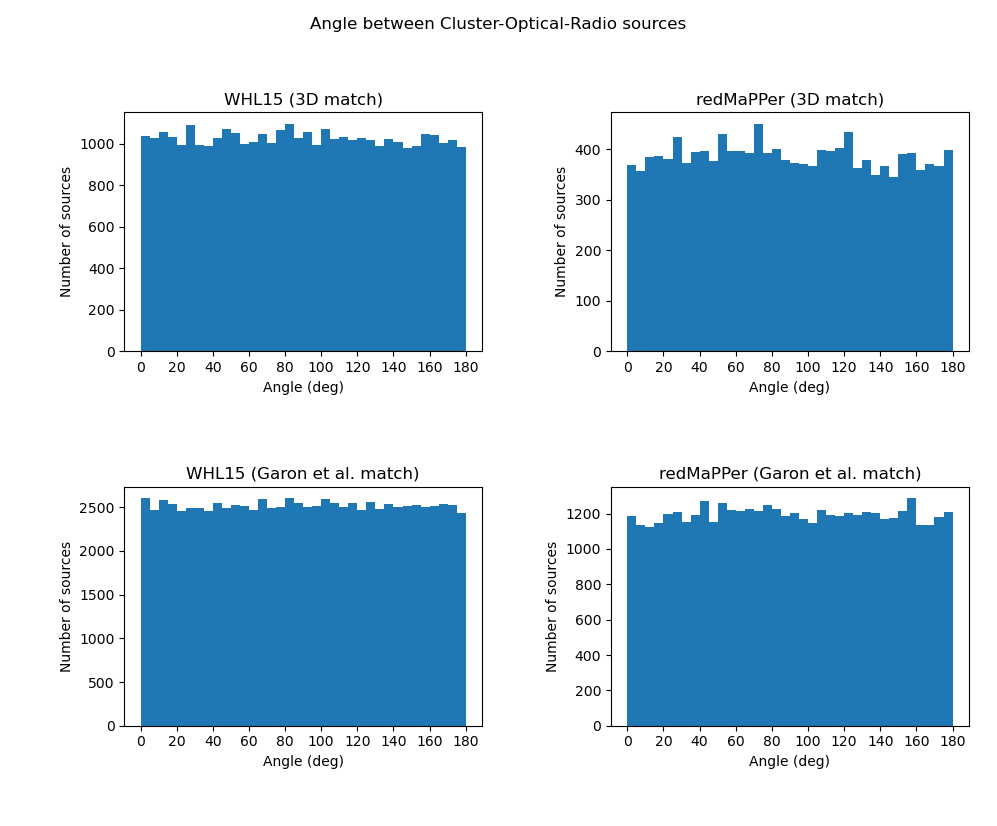
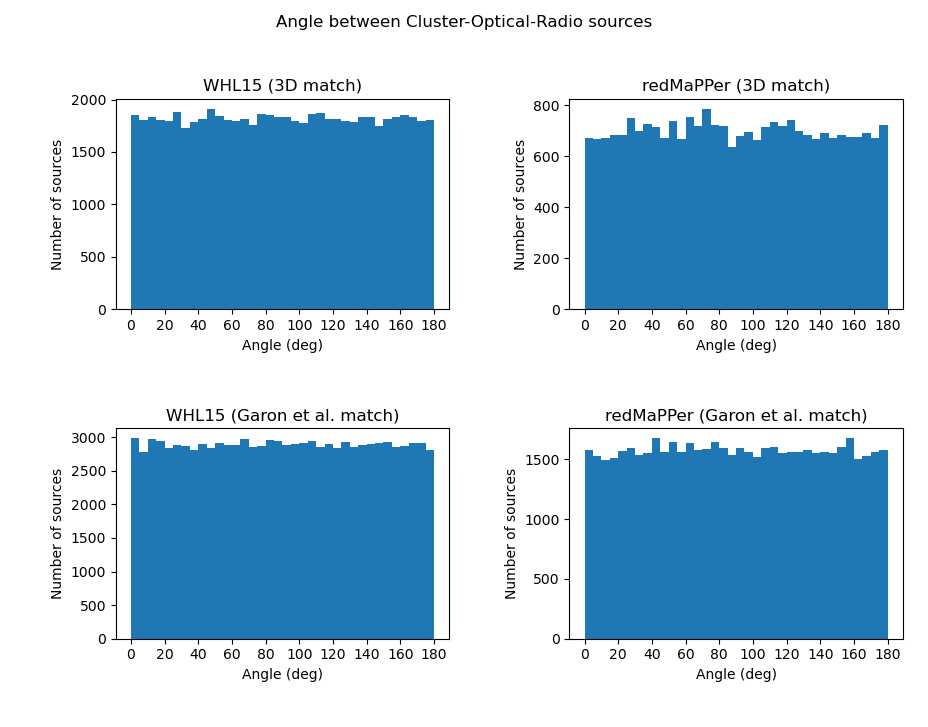
Change from comoving distance to angular diameter distance

diff --git a/LOFAR_Cluster_Match_3D.py b/LOFAR_Cluster_Match_3D.py
@@ -18,25 +18,31 @@ from astropy.cosmology import FlatLambdaCDM
 cosmo = FlatLambdaCDM(H0=68, Om0=0.315)
 
 # Import previously created FITS tables with radio/optical data and cluster data
-RadDat = Table.read('Data\Radio source data', format='fits')
-ClusDat = Table.read('Data\Full RM Cluster Catalogue', format='fits') # This input can be changed for either WHL15 or RM catalogues
+Rad = Table.read('Data\Radio source data', format='fits')
+Clus = Table.read('Data\Full RM Cluster Catalogue', format='fits') # This input can be changed for either WHL15 or RM catalogues
+
+# Spectroscopic z value cuts
+# ClusDat = ClusDat[ClusDat['z Source'] == 'Spectroscopic']
+# RadDat = RadDat[RadDat['z_best_source'] == 'Spectroscopic']
 
 # Calculate distances to sources in Mpc using redshift values
-optDist = cosmo.comoving_distance(RadDat['z_best'])
-ClusDist = cosmo.comoving_distance(ClusDat['Cluster z'])
+optDist = cosmo.angular_diameter_distance(Rad['z_best'])
+ClusDist = cosmo.angular_diameter_distance(Clus['Cluster z'])
 
 # Put optical and cluster RA and DEC into SkyCoords
-opt = SkyCoord(RadDat['Optical RA'], RadDat['Optical DEC'], distance=optDist,
+opt = SkyCoord(Rad['Optical RA'], Rad['Optical DEC'], distance=optDist,
                unit=('deg', 'deg', 'Mpc'))
-clus = SkyCoord(ClusDat['Cluster RA'],ClusDat['Cluster DEC'], distance=ClusDist,
+clus = SkyCoord(Clus['Cluster RA'],Clus['Cluster DEC'], distance=ClusDist,
                 unit=('deg', 'deg', 'Mpc'))
+
+#%% Single match method
 
 # Find 3D matches between opt and clus
 idx, d2d, d3d = opt.match_to_catalog_3d(clus)
 d2d = d2d.arcsecond
 
 # Calculate Delta z between matched galaxies and cluster centres
-delta_z = lf.z_diff_calc(RadDat['z_best'], ClusDat['Cluster z'][idx])
+delta_z = lf.z_diff_calc(Rad['z_best'], Clus['Cluster z'][idx])
 # Calculate 2D distance on sky in Mpc
 Dist2d = optDist*np.radians(d2d/3600)
 # Constrain matches to within abs(Delta z) < 0.04 and within 15Mpc
@@ -45,9 +51,8 @@ d3dcut = d3d[cutCond]
 d2dcut = d2d[cutCond]
 idxcut = idx[cutCond]
 
-
 # Combine radio/optical data with matched cluster data
-ClusMatchData = hstack([RadDat[cutCond], ClusDat[idxcut]])
+ClusMatchData = hstack([Rad[cutCond], Clus[idxcut]])
 ClusMatchData.add_columns([delta_z[cutCond], d3dcut, d2dcut, np.array(Dist2d[cutCond])],
                           names=['Delta z', '3D Distance', '2D Separation', '2D Distance'])
 
@@ -58,7 +63,58 @@ ClusMatchData['2D Separation'].unit = 'arcsec'
 ClusMatchData['2D Distance'].unit = 'Mpc'
 
 # Create new FITS file with all match data in
-# ClusMatchData.write('WHL Cluster match data', format = 'fits')
+ClusMatchData.write('RM match data (3D)', format = 'fits')
+
+#%% Multiple match method
+
+# Find 3D matches between opt and clus
+idxclus, idxopt, d2d, d3d = opt.search_around_3d(clus, 180*u.Mpc)
+d2d = d2d.arcsecond
+
+# Calculate Delta z between matched galaxies and cluster centres
+delta_z = lf.z_diff_calc(Rad['z_best'][idxopt], Clus['Cluster z'][idxclus])
+# Calculate 2D distance on sky in Mpc
+Dist2d = optDist[idxopt]*np.radians(d2d/3600)
+# Constrain matches to within abs(Delta z) < 0.04 and within 15Mpc
+cutCond = (abs(delta_z) < 0.04) & (Dist2d <= 15*u.Mpc)
+d3dcut = d3d[cutCond]
+d2dcut = d2d[cutCond]
+idxcluscut = idxclus[cutCond]
+idxoptcut = idxopt[cutCond]
+
+# Combine radio/optical data with matched cluster data
+ClusMatchData = hstack([Rad[idxoptcut], Clus[idxcluscut]])
+ClusMatchData.add_columns([delta_z[cutCond], d3dcut, d2dcut, np.array(Dist2d[cutCond])],
+                          names=['Delta z', '3D Distance', '2D Separation', '2D Distance'])
+
+ClusMatchData['Cluster RA'].unit = 'deg'
+ClusMatchData['Cluster DEC'].unit = 'deg'
+ClusMatchData['3D Distance'].unit = 'Mpc'
+ClusMatchData['2D Separation'].unit = 'arcsec'
+ClusMatchData['2D Distance'].unit = 'Mpc'
+
+#%%
+match = ClusMatchData.copy()
+
+for i in range(0, len(Rad)):
+    if i%500 == 0: # Checking how fast the code is running
+        print(i)
+    # Look for all sources based on ID (looking for sources with >1 match)
+    keepCond = match['Radio Source'] == Rad['Radio Source'][i]
+    keepDist = match['2D Distance'][keepCond]
+    if len(keepDist) > 1:
+        allInd = np.where(keepCond == True)[0]
+        keepInd = allInd[np.where(keepDist == min(keepDist))[0][0]]
+        dropInd = allInd[allInd != keepInd]
+        match.remove_rows(list(dropInd))
+        
+        
+    
+
+# Create new FITS file with all match data in
+# ClusMatchData.write('WHL match data (3D Spectroscopic)', format = 'fits')
+
+
 
 
 

diff --git a/LOFAR_Cluster_Match_Garon.py b/LOFAR_Cluster_Match_Garon.py
@@ -16,15 +16,19 @@ from astropy.cosmology import FlatLambdaCDM
 cosmo = FlatLambdaCDM(H0=68, Om0=0.315)
 
 # Read cluster catalogues and radio-optical data
-Clus = Table.read('Data\Full WHL Cluster Catalogue', format='fits')
+Clus = Table.read('Data\Full RM Cluster Catalogue', format='fits')
 Rad = Table.read('Data\Radio source data', format='fits')
+
+# Spectroscopic z value cuts
+# Clus = Clus[Clus['z Source'] == 'Spectroscopic']
+# Rad = Rad[Rad['z_best_source'] == 'Spectroscopic']
 
 # Put RA and DECs into SkyCoord co ordinates
 Clusco = SkyCoord(Clus['Cluster RA'], Clus['Cluster DEC'], unit='deg')
 Radco = SkyCoord(Rad['Optical RA'], Rad['Optical DEC'], unit='deg')
 
 # Calculate co-moving distance of all z values in radio-optical data
-comDist = np.array(cosmo.comoving_distance(Rad['z_best'])/u.Mpc)
+comDist = np.array(cosmo.angular_diameter_distance(Rad['z_best'])/u.Mpc)
 
 # Create empty arrays to hold cluster IDs, Delta z values, and dist values
 ClusIDs = np.array([])
@@ -73,7 +77,7 @@ clusMatch = join(Rad, Clus, keys='Cluster ID', join_type='left')
 # Remove radio/optical sources with no cluster match
 clusMatch2 = clusMatch[np.isnan(clusMatch['Delta z']) == False]
 # Write to FITS file
-# clusMatch2.write('WHL match data (Garon)', format = 'fits')
+clusMatch2.write('RM match data (Garon)', format = 'fits')
 
             
                 

diff --git a/Cluster_Pre-processing.py b/Cluster_Pre-processing.py
@@ -34,13 +34,13 @@ WHL15NewzSource = np.full(len(WHL15New['zspec']), 'Spectroscopic') # All new WHL
 WHLzSource = np.concatenate([WHL15zBestSource, WHL15NewzSource])
 WHLDat.add_columns([WHLzBest, WHLzSource], names=['Cluster z', 'z Source'])
 
+# Dud rows that don't feed into SkyCoord nicely
+WHLDat.remove_rows([132684, -1])
 # Calculate optical mass proxy from richness and add to WHL master table
 M500 = 10**(1.08*np.log10(WHLDat['Richness']) - 1.37)
 WHLDat.add_column(M500, name='M500')
-# Dud rows that don't feed into SkyCoord nicely
-WHLDat.remove_rows([132684, -1])
 # Write to its own FITS file
-WHLDat.write('Full WHL Cluster Catalogue', format = 'fits')
+(WHLDat.filled(-1.0)).write('Full WHL Cluster Catalogue', format = 'fits')
 
 #%%
 

diff --git a/LOFAR_Cutting_Data.py b/LOFAR_Cutting_Data.py
@@ -12,10 +12,10 @@ import numpy as np
 # from astropy.coordinates import SkyCoord
 
 
-RMdatG = Table.read('Data\RM Angle data (Garon)')
-RMdat3D = Table.read('Data\RM Angle data (3D)')
-WHLdatG = Table.read('Data\WHL Angle data (Garon)')
-WHLdat3D = Table.read('Data\WHL Angle data (3D)')
+RMdatG = Table.read('Data\RM Angle data (Garon)', format = 'fits')
+RMdat3D = Table.read('Data\RM Angle data (3D)', format = 'fits')
+WHLdatG = Table.read('Data\WHL Angle data (Garon)', format = 'fits')
+WHLdat3D = Table.read('Data\WHL Angle data (3D)', format = 'fits')
 
 # Constrain radio-optical offset to within 1 and 100 arcseconds
 # Constrain redshifts to be > 0.05

diff --git a/LOFAR_Angle_Calculation.py b/LOFAR_Angle_Calculation.py
@@ -162,10 +162,10 @@ WHLdatG['Angle ROC'].unit = 'deg'
 WHLdat3D.add_column(WHL3Dtheta_diff, name='Angle ROC')
 WHLdat3D['Angle ROC'].unit = 'deg'
 
-#RMdatG.write('RM Angle data (Garon)', format = 'fits')
-#WHLdatG.write('WHL Angle data (Garon)', format = 'fits')
-#RMdat3D.write('RM Angle data (3D)', format = 'fits')
-#WHLdat3D.write('WHL Angle data (3D)', format = 'fits')
+# RMdatG.write('RM Angle data (Garon)', format = 'fits')
+# WHLdatG.write('WHL Angle data (Garon)', format = 'fits')
+# RMdat3D.write('RM Angle data (3D)', format = 'fits')
+# WHLdat3D.write('WHL Angle data (3D)', format = 'fits')
     
     
     

diff --git a/LOFAR_Functions.py b/LOFAR_Functions.py
@@ -129,6 +129,20 @@ def offset(RA_0, DEC_0, RA_1, DEC_1):
     Offset = np.sqrt(x**2 + y**2)
     return Offset
 
+def NAT_cut(Table):
+    NATcut = Table['NAT'] == True
+    return Table[NATcut]
+
+def WAT_cut(Table):
+    WATcut = Table['WAT'] == True
+    return Table[WATcut]
+
+def AGN_cut(Table):
+    AGNcut = (Table['specAGN'] == 1.0) |\
+             (Table['mqcAGN'] == True) |\
+             (Table['XrayClass'] == 1.0)
+    return Table[AGNcut]
+
 
 
 
